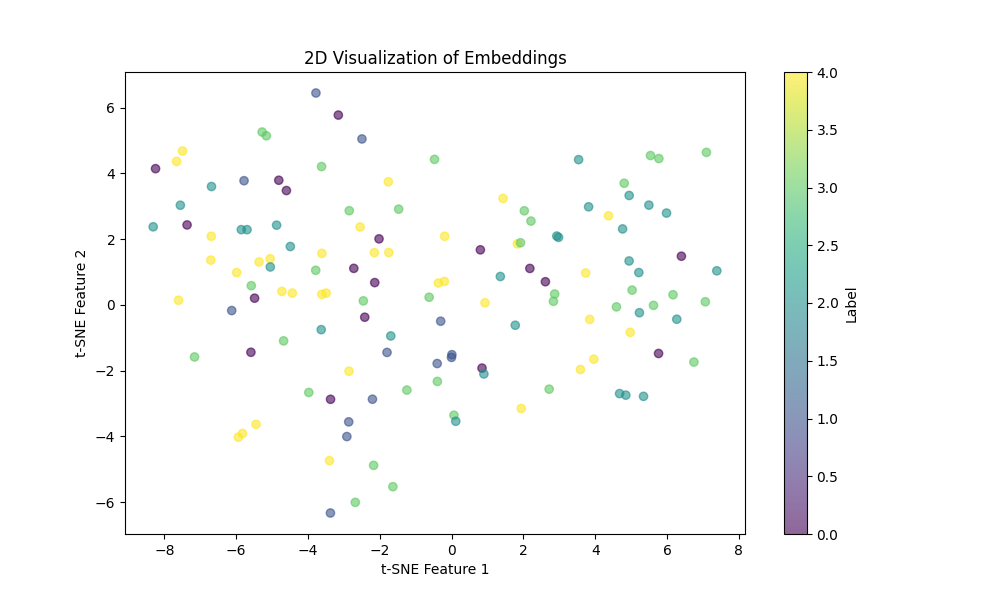
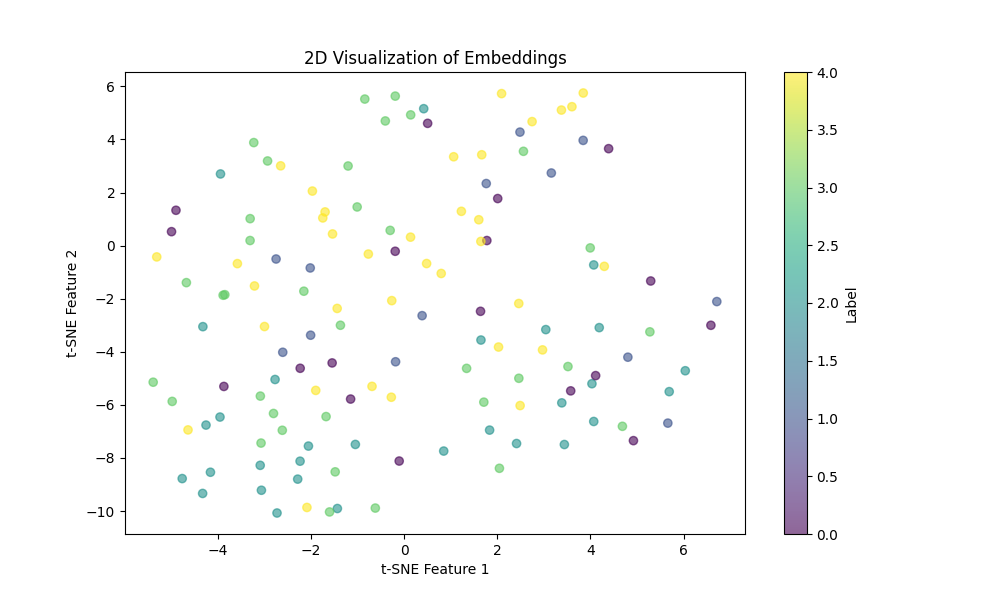
changed margin, took out too much logging, fixed printing

diff --git a/leopard_id/metrics/eval_metrics.py b/leopard_id/metrics/eval_metrics.py
@@ -19,16 +19,11 @@ def compute_dynamic_k_avg_precision(dist_matrix, labels, max_k, device):
     dist_matrix = dist_matrix.to(device)
     labels = labels.to(device)
     num_samples = dist_matrix.size(0)
-    avg_precisions = torch.zeros(num_samples)
+    avg_precisions = torch.zeros(num_samples, device=device)
     valid_counts = 0
 
     # Calculate the count of each class minus one (for self-comparison)
     class_counts = torch.bincount(labels) - 1
-    print("labels size", labels.size())
-    print("matrix size", dist_matrix.size())
-    print("labels", labels)
-    print("class counts size", class_counts.size())
-    print("class_counts", class_counts)
 
     for i in range(num_samples):
         # Get current sample's class
@@ -43,25 +38,20 @@ def compute_dynamic_k_avg_precision(dist_matrix, labels, max_k, device):
             dists[i] = float("inf")
 
             # Find the top dynamic k smallest distances.
-            dists1, top_k_indices = torch.topk(dists, dynamic_k, largest=False,
+            _, top_k_indices = torch.topk(dists, dynamic_k, largest=False,
                                                sorted=True)
-            print("dists1", dists1)
-            print("top k indices", top_k_indices)
 
             # Get the labels of the top k closest samples
             top_k_labels = labels[top_k_indices]
-            print("top k labels", top_k_labels)
 
             # True positives at each k position
             true_positives = (top_k_labels == current_class).float()
-            print("true positives", true_positives)
 
             # Cum sum of true positives to calculate precision at each cut-off
             cum_true_positives = true_positives.cumsum(0)
 
             # Ranks (1-based) for each of the top k
-            ranks = torch.arange(1, dynamic_k + 1).float()
-
+            ranks = torch.arange(1, dynamic_k + 1, device=device).float()
             # Precision at each k
             precision_at_k = cum_true_positives / ranks
 

diff --git a/leopard_id/engine/trainer.py b/leopard_id/engine/trainer.py
@@ -34,7 +34,7 @@ def train_epoch(model, data_loader, optimizer, criterion, device):
 
 def evaluate_epoch(model, data_loader, device, max_k=5, verbose=False):
     """
-    Evaluate the model and return the average precision and average loss.
+    Evaluate the model and return the average precision.
     """
     model.eval()
     total_precision = 0
@@ -46,16 +46,17 @@ def evaluate_epoch(model, data_loader, device, max_k=5, verbose=False):
             outputs = model(inputs)
             start_time = time.time()
             dist_mat = euclidean_dist(outputs, outputs)
-            end_time_dist = time.time() - start_time
+            time_taken_dist = time.time() - start_time
+
             if verbose:
-                print("time taken to compute distance matrix {:.2f} s".format(
-                    end_time_dist))
-            batch_precision = compute_dynamic_k_avg_precision(dist_mat,
-                                                              targets, max_k,
-                                                              device)
+                print("Time taken to compute distance matrix {:.2f} s".format(time_taken_dist))
+
+            start_time_precision = time.time()
+            batch_precision = compute_dynamic_k_avg_precision(dist_mat, targets, max_k, device)
+            time_taken_precision = time.time() - start_time_precision 
+
             if verbose:
-                print("time taken to calculate precision {:.2f} s".format(
-                    time.time() - end_time_dist))
+                print("Time taken to calculate precision {:.2f} s".format(time_taken_precision))
 
             total_precision += batch_precision
 

diff --git a/leopard_id/train.py b/leopard_id/train.py
@@ -14,9 +14,9 @@ project_root = os.path.dirname(os.path.abspath(__file__))
 
 
 def setup_data_loader(verbose):
-    root_dir_train = os.path.join(project_root, "data", "minimum_usable_dataset")
+    root_dir_train = os.path.join(project_root, "data", "train_dataset")
     root_dir_test = os.path.join(project_root, "data",
-                                 "minimum_usable_dataset_2")
+                                 "test_dataset")
     # check root_dir is valid directory
     if not os.path.isdir(root_dir_train):
         raise NotADirectoryError(f"Directory {root_dir_train} does not exist.")
@@ -59,7 +59,7 @@ def main():
     print(f"Using device: {device}")
     train_loader, test_loader = setup_data_loader(verbose=verbose)
 
-    model = TripletNetwork(backbone_model="resnet18").to(device)
+    model = TripletNetwork(backbone_model="resnet50").to(device)
     print(summary(model, (3, 256, 512)))
     resnet_model = train_model(
         model,

diff --git a/leopard_id/losses/TripletLoss.py b/leopard_id/losses/TripletLoss.py
@@ -18,7 +18,7 @@ def euclidean_dist(x, y):
 
 
 class TripletLoss(nn.Module):
-    def __init__(self, margin=0.2, verbose=False):
+    def __init__(self, margin=0.25, verbose=False):
         super(TripletLoss, self).__init__()
         self.margin = margin
         self.ranking_loss = nn.MarginRankingLoss(margin=self.margin)
